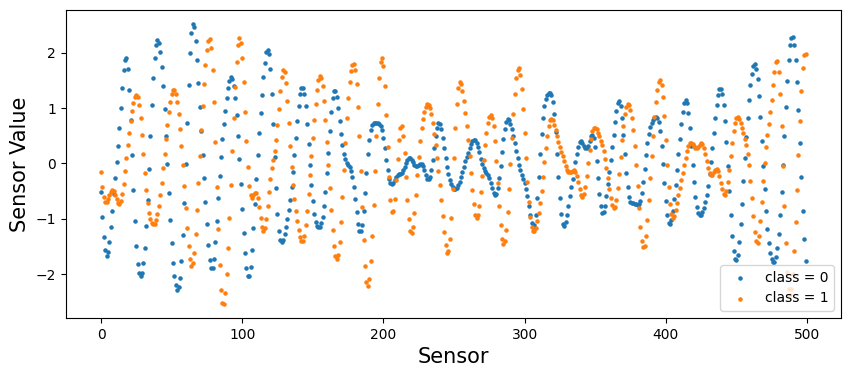
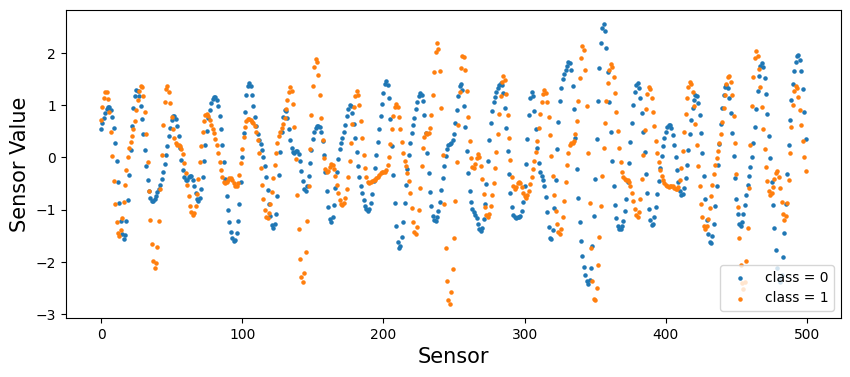
feat: Data Normalization

diff --git a/motor_vibration_anomaly_detection/code/analysisA.py b/motor_vibration_anomaly_detection/code/analysisA.py
@@ -225,3 +225,43 @@ ax.axes.yaxis.set_visible(False)
 plt.tight_layout()
 plt.savefig(img_save_path + 'corr.png', dpi=100, bbox_inches='tight')  # Plot 이미지 저장
 plt.show()  # Plot 화면에 출력
+
+# ==============================
+# 데이터 정규화
+# Data Normalization
+# ==============================
+
+from sklearn.preprocessing import StandardScaler, RobustScaler
+
+# Standard Scaler를 적용하고 싶은 경우 아래 Code를 실행
+stder = StandardScaler()
+stder.fit(x_train)   # 학습 데이터로 Scaler 학습
+x_train = stder.transform(x_train)   # 학습 데이터에 Scaler 적용
+x_valid = stder.transform(x_valid)   # 검증 데이터에 Scaler 적용
+
+# Robust Scaler를 적용하고 싶은 경우 아래 Code를 실행
+# rscaler = RobustScaler()
+# rscaler.fit(x_train)   # 학습 데이터로 Scaler 학습
+# x_train = rscaler.transform(x_train)   # 학습 데이터에 Scaler 적용
+# x_valid = rscaler.transform(x_valid)   # 검증 데이터에 Scaler 적용
+
+# CNN, RNN 모델의 입력 변수는 채널 축 1개 차원을 확장시킨 3D Tensor이다.
+# 축 아래 CNN, RNN 모델은 x_train, x_valid, x_test를 입력 변수로 넣지 않고,
+# x_train_exp, x_valid_exp, x_test_exp를 입력 변수로 넣는다.
+x_train_exp = np.expand_dims(x_train, -1)   # 채널 축
+x_valid_exp = np.expand_dims(x_valid, -1)   # 채널 축
+x_test_exp = np.expand_dims(x_test, -1)     # 채널 축
+
+print("\nData shapes after normalization and dimension expansion:")
+print("x_train_exp shape:", x_train_exp.shape)
+print("x_valid_exp shape:", x_valid_exp.shape)
+print("x_test_exp shape:", x_test_exp.shape)
+
+# ==============================
+# 종속 변수(y)를 양의 값으로 변경
+# Change dependent variable (y) to positive values
+# ==============================
+
+y_train[y_train == -1] = 0   # y_train의 -1 값을 0으로 변경
+y_valid[y_valid == -1] = 0   # y_valid의 -1 값을 0으로 변경
+y_test[y_test == -1] = 0     # y_test의 -1 값을 0으로 변경
